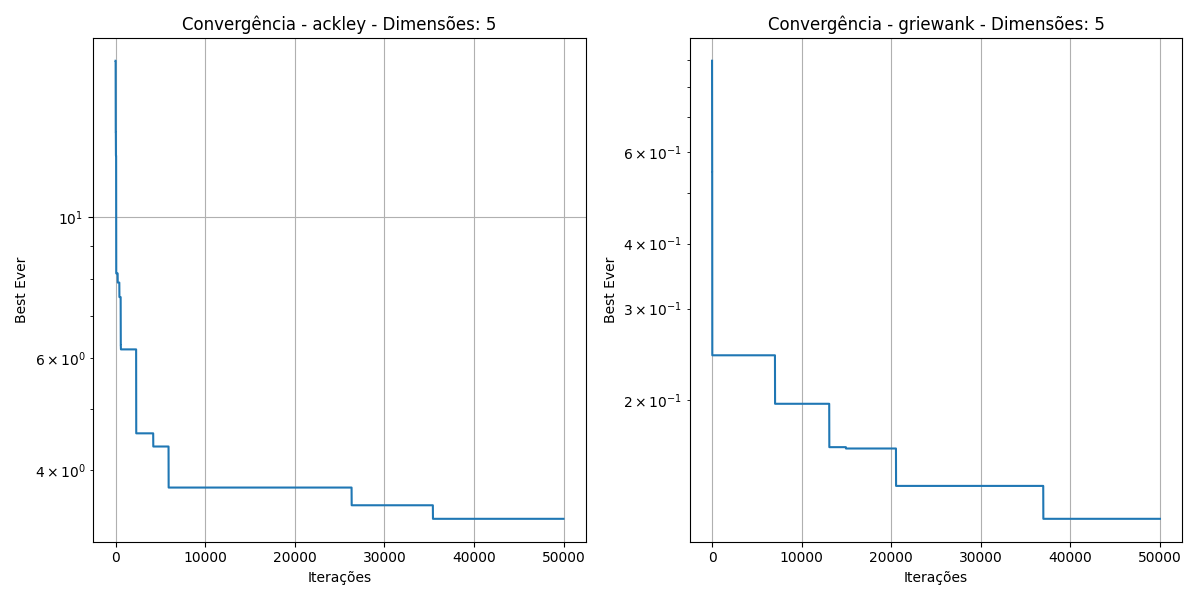
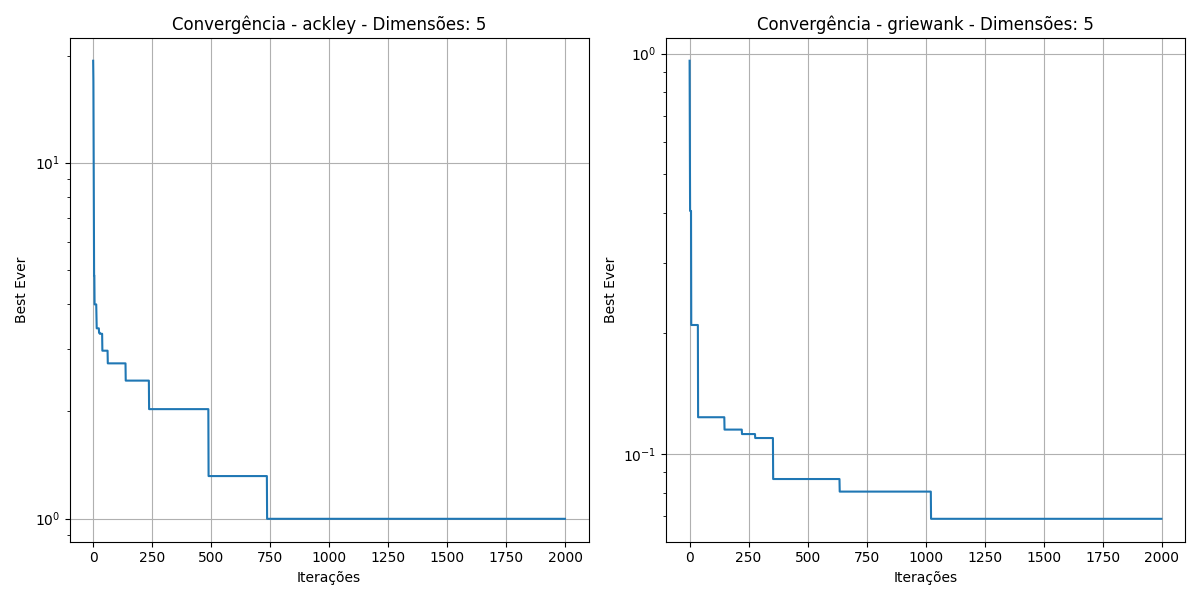
Deletando arquivos antigos e upando novos

diff --git a/pso-master/inertia_experiment.py b/pso-master/inertia_experiment.py
@@ -1,0 +1,110 @@
+import os
+import matplotlib.pyplot as plt
+from matplotlib.gridspec import GridSpec
+import numpy as np
+import json
+import pandas as pd
+from pso import PSO, ackley, griewank  # Importando a implementação do PSO
+
+# Configurações de diretório
+RESULTS_DIR = './results/pso_boxplots_inertia'
+if not os.path.exists(RESULTS_DIR):
+    os.mkdir(RESULTS_DIR)
+
+# Definir valores de C1 e C2 para experimentos
+C_VALUES = 1.55
+NUM_EXECUTIONS = 10
+MAX_ITER = 2000
+BOUNDS = (-32, 32)
+DIM = 10
+V_FACT = 1
+INERTIA = [0.1,0.5,0.7]
+CONSTRICT_FACT = 1
+
+# Função para rodar o PSO e coletar os melhores resultados
+def run_pso_experiment(objective_func, inertia, results_list):
+    best_ever_values = []
+    for _ in range(NUM_EXECUTIONS):
+        history, best_ever = PSO(
+            bounds=BOUNDS,
+            objective=objective_func,
+            dim=DIM,
+            max_iter=MAX_ITER,
+            inertia=inertia,
+            constrict_fact=CONSTRICT_FACT,
+            v_fact=V_FACT,
+            cog_fact=C_VALUES,
+            social_fact=C_VALUES  # Como C1 = C2
+        )
+        best_ever_values.append(best_ever)
+    results_list.extend(best_ever_values)
+
+# Preparar a estrutura para armazenar os resultados dos experimentos
+results_ackley = {i: [] for i in INERTIA}
+results_griewank = {i: [] for i in INERTIA}
+
+# Rodar os experimentos para as duas funções objetivo (Ackley e Griewank)
+for i in INERTIA:
+    # Rodar para Ackley
+    run_pso_experiment(ackley, i, results_ackley[i])
+    # Rodar para Griewank
+    run_pso_experiment(griewank, i, results_griewank[i])
+
+# Criar os DataFrames
+ackley_df = pd.DataFrame({f'W={i}': results_ackley[i] for i in INERTIA})
+griewank_df = pd.DataFrame({f'W={i}': results_griewank[i] for i in INERTIA})
+
+# Calcular média e desvio padrão para Ackley
+ackley_mean_std = {
+    i: {
+        'mean': np.mean(results_ackley[i]),
+        'std': np.std(results_ackley[i])
+    }
+    for i in INERTIA
+}
+
+# Calcular média e desvio padrão para Griewank
+griewank_mean_std = {
+    i: {
+        'mean': np.mean(results_griewank[i]),
+        'std': np.std(results_griewank[i])
+    }
+    for i in INERTIA
+}
+
+# Organizar as médias e desvios padrão em um único dicionário
+mean_std_dict = {
+    'Ackley': ackley_mean_std,
+    'Griewank': griewank_mean_std
+}
+
+# Salvar o dicionário em um arquivo JSON
+path = "mean_std_inertia_" + str(MAX_ITER) + "_iter_"+ str(DIM) + "DIM" + ".json"
+with open(os.path.join(RESULTS_DIR, path), mode='w') as fp:
+    mean_std_json = json.dumps(mean_std_dict, indent=4, ensure_ascii=False)
+    fp.write(mean_std_json)
+
+# Criar a figura
+fig, axes = plt.subplots(1, 2, figsize=(14, 7))
+
+# Boxplot para Ackley
+ackley_df.plot(kind='box', ax=axes[0])
+axes[0].set_title('PSO - Ackley')
+axes[0].set_ylabel('Melhor valor (Best Ever)')
+axes[0].set_xlabel('Inertia')
+axes[0].tick_params(axis='y')
+
+# Boxplot para Griewank
+griewank_df.plot(kind='box', ax=axes[1])
+axes[1].set_title('PSO - Griewank')
+axes[1].set_ylabel('Melhor valor (Best Ever)')
+axes[1].set_xlabel('Inertia')
+axes[1].tick_params(axis='y')
+
+# Ajustar o layout
+plt.tight_layout()
+
+# Salvar o gráfico
+path = "pso_boxplots" + str(MAX_ITER) + "_iter_"+ str(DIM) + "DIM" + ".png"
+plt.savefig(os.path.join(RESULTS_DIR, path))
+plt.show()

diff --git a/pso-master/c1_c2_experiment.py b/pso-master/c1_c2_experiment.py
@@ -1,0 +1,108 @@
+import os
+import matplotlib.pyplot as plt
+from matplotlib.gridspec import GridSpec
+import numpy as np
+import json
+import pandas as pd
+from pso import PSO, ackley, griewank  # Importando a implementação do PSO
+
+# Configurações de diretório
+RESULTS_DIR = './results/pso_boxplots'
+if not os.path.exists(RESULTS_DIR):
+    os.mkdir(RESULTS_DIR)
+
+# Definir valores de C1 e C2 para experimentos
+C_VALUES = [1.55, 2.05, 3.55]
+NUM_EXECUTIONS = 10
+MAX_ITER = 2000
+BOUNDS = (-32, 32)
+DIM = 10
+V_FACT = 1
+INERTIA = 1
+CONSTRICT_FACT = 1
+
+# Função para rodar o PSO e coletar os melhores resultados
+def run_pso_experiment(objective_func, c, results_list):
+    best_ever_values = []
+    for _ in range(NUM_EXECUTIONS):
+        history, best_ever = PSO(
+            bounds=BOUNDS,
+            objective=objective_func,
+            dim=DIM,
+            max_iter=MAX_ITER,
+            inertia=INERTIA,
+            constrict_fact=CONSTRICT_FACT,
+            v_fact=V_FACT,
+            cog_fact=c,
+            social_fact=c  # Como C1 = C2
+        )
+        best_ever_values.append(best_ever)
+    results_list.extend(best_ever_values)
+
+# Preparar a estrutura para armazenar os resultados dos experimentos
+results_ackley = {c: [] for c in C_VALUES}
+results_griewank = {c: [] for c in C_VALUES}
+
+# Rodar os experimentos para as duas funções objetivo (Ackley e Griewank)
+for c in C_VALUES:
+    # Rodar para Ackley
+    run_pso_experiment(ackley, c, results_ackley[c])
+    # Rodar para Griewank
+    run_pso_experiment(griewank, c, results_griewank[c])
+
+# Criar os DataFrames
+ackley_df = pd.DataFrame({f'C={c}': results_ackley[c] for c in C_VALUES})
+griewank_df = pd.DataFrame({f'C={c}': results_griewank[c] for c in C_VALUES})
+
+# Calcular média e desvio padrão para Ackley
+ackley_mean_std = {
+    c: {
+        'mean': np.mean(results_ackley[c]),
+        'std': np.std(results_ackley[c])
+    }
+    for c in C_VALUES
+}
+
+# Calcular média e desvio padrão para Griewank
+griewank_mean_std = {
+    c: {
+        'mean': np.mean(results_griewank[c]),
+        'std': np.std(results_griewank[c])
+    }
+    for c in C_VALUES
+}
+
+# Organizar as médias e desvios padrão em um único dicionário
+mean_std_dict = {
+    'Ackley': ackley_mean_std,
+    'Griewank': griewank_mean_std
+}
+
+# Salvar o dicionário em um arquivo JSON
+with open(os.path.join(RESULTS_DIR, 'mean_std.json'), mode='w') as fp:
+    mean_std_json = json.dumps(mean_std_dict, indent=4, ensure_ascii=False)
+    fp.write(mean_std_json)
+
+# Criar a figura
+fig, axes = plt.subplots(1, 2, figsize=(14, 7))
+
+# Boxplot para Ackley
+ackley_df.plot(kind='box', ax=axes[0])
+axes[0].set_title('PSO - Ackley')
+axes[0].set_ylabel('Melhor valor (Best Ever)')
+axes[0].set_xlabel('C1 = C2')
+axes[0].tick_params(axis='y')
+
+# Boxplot para Griewank
+griewank_df.plot(kind='box', ax=axes[1])
+axes[1].set_title('PSO - Griewank')
+axes[1].set_ylabel('Melhor valor (Best Ever)')
+axes[1].set_xlabel('C1 = C2')
+axes[1].tick_params(axis='y')
+
+# Ajustar o layout
+plt.tight_layout()
+
+# Salvar o gráfico
+plt.savefig(os.path.join(RESULTS_DIR, 'pso_boxplots.png'))
+plt.show()

diff --git a/pso-master/convergence_experiment.py b/pso-master/convergence_experiment.py
@@ -3,20 +3,25 @@ from numpy import exp, sqrt, cos, e, pi
 import numpy as np
 import matplotlib.pyplot as plt
 from pso import PSO, ackley, griewank
+import os
+
+RESULTS_DIR = './results/convergence'
+if not os.path.exists(RESULTS_DIR):
+    os.mkdir(RESULTS_DIR)
+
 
 MAX_ITER = 10000
-BOUNDS = (-32, 32)
 V_FACT = 1
 DIM = 5
-C1 = C2 = 1.55
-INERTIA = 1.5
-CONSTRICT_FACT = 1
+C1 = C2 = 2.05
+INERTIA = 0.1
+CONSTRICT_FACT = (2 / abs(2 - (C1 + C2) - sqrt(pow(C1 + C2, 2) - 4 * (C1 + C2))))
 
 # Função para executar o PSO para uma função objetivo específica e gerar o gráfico
-def run_pso(objective_func, history_list, best_ever_list, subplot_idx, axs):
+def run_pso(objective_func, history_list, best_ever_list, subplot_idx, axs,bounds_func):
     history, best_ever = PSO(
         max_iter=MAX_ITER,
-        bounds=BOUNDS,
+        bounds=bounds_func,
         objective=objective_func,
         dim=DIM,
         cog_fact=C1,
@@ -46,8 +51,8 @@ best_ever_list = [None, None]
 fig, axs = plt.subplots(1, 2, figsize=(12, 6))
 
 # Criar as threads para executar PSO para as duas funções objetivo
-thread_ackley = threading.Thread(target=run_pso, args=(ackley, history_list, best_ever_list, 0, axs))
-thread_griewank = threading.Thread(target=run_pso, args=(griewank, history_list, best_ever_list, 1, axs))
+thread_ackley = threading.Thread(target=run_pso, args=(ackley, history_list, best_ever_list, 0, axs,(-32, 32)))
+thread_griewank = threading.Thread(target=run_pso, args=(griewank, history_list, best_ever_list, 1, axs,(-600,600)))
 
 # Iniciar as threads
 thread_ackley.start()
@@ -60,7 +65,7 @@ thread_griewank.join()
 # Gerar o gráfico lado a lado apenas após as threads terem terminado
 plt.tight_layout()
 
-# Salvar a imagem
-plt.savefig(f'pso_convergence.png')
+path = "pso_convergence_" + str(MAX_ITER) + "Iter_" + str(DIM) + "DIM.png"
+plt.savefig(os.path.join(RESULTS_DIR, path))
 plt.show()
 

diff --git a/pso-master/constrict_fact_experiment.py b/pso-master/constrict_fact_experiment.py
@@ -3,20 +3,24 @@ from numpy import exp, sqrt, cos, e, pi
 import numpy as np
 import matplotlib.pyplot as plt
 from pso import PSO, ackley, griewank
+import os
 
-MAX_ITER = 10000
-BOUNDS = (-32, 32)
+RESULTS_DIR = './results/convergence_constrict_fact'
+if not os.path.exists(RESULTS_DIR):
+    os.mkdir(RESULTS_DIR)
+
+MAX_ITER = 2000
 V_FACT = 1
 DIM = 5
-C1 = C2 = 1.55
-INERTIA = 1.5
-CONSTRICT_FACT = 1
+C1 = C2 = 2.05
+INERTIA = 0.1
+CONSTRICT_FACT = (2 / abs(2 - (C1 + C2) - sqrt(pow(C1 + C2, 2) - 4 * (C1 + C2))))
 
 # Função para executar o PSO para uma função objetivo específica e gerar o gráfico
-def run_pso(objective_func, history_list, best_ever_list, subplot_idx, axs):
+def run_pso(objective_func, history_list, best_ever_list, subplot_idx, axs,bounds_func):
     history, best_ever = PSO(
         max_iter=MAX_ITER,
-        bounds=BOUNDS,
+        bounds=bounds_func,
         objective=objective_func,
         dim=DIM,
         cog_fact=C1,
@@ -46,8 +50,8 @@ best_ever_list = [None, None]
 fig, axs = plt.subplots(1, 2, figsize=(12, 6))
 
 # Criar as threads para executar PSO para as duas funções objetivo
-thread_ackley = threading.Thread(target=run_pso, args=(ackley, history_list, best_ever_list, 0, axs))
-thread_griewank = threading.Thread(target=run_pso, args=(griewank, history_list, best_ever_list, 1, axs))
+thread_ackley = threading.Thread(target=run_pso, args=(ackley, history_list, best_ever_list, 0, axs,(-32,32)))
+thread_griewank = threading.Thread(target=run_pso, args=(griewank, history_list, best_ever_list, 1, axs,(-600,600)))
 
 # Iniciar as threads
 thread_ackley.start()
@@ -61,6 +65,7 @@ thread_griewank.join()
 plt.tight_layout()
 
 # Salvar a imagem
-plt.savefig(f'pso_convergence.png')
+path = "pso_convergence_cfact_" + str(MAX_ITER) + "Iter_" + str(DIM) + "DIM.png"
+plt.savefig(os.path.join(RESULTS_DIR, path))
 plt.show()
 

diff --git a/pso-master/pso.py b/pso-master/pso.py
@@ -51,6 +51,7 @@ def calculate_velocity(p, g_best, inertia, constrict_fact, v_fact, cog_fact, soc
 
 # Parametrizar o fator de constrição
 def PSO(bounds, objective, dim, max_iter=5000, num_p=30, inertia=1, constrict_fact=1, v_fact=1, cog_fact=1, social_fact=1):
+    
     if bounds[0] >= bounds[1]:
         raise Exception('Restrição de domínio inválida') 
     
